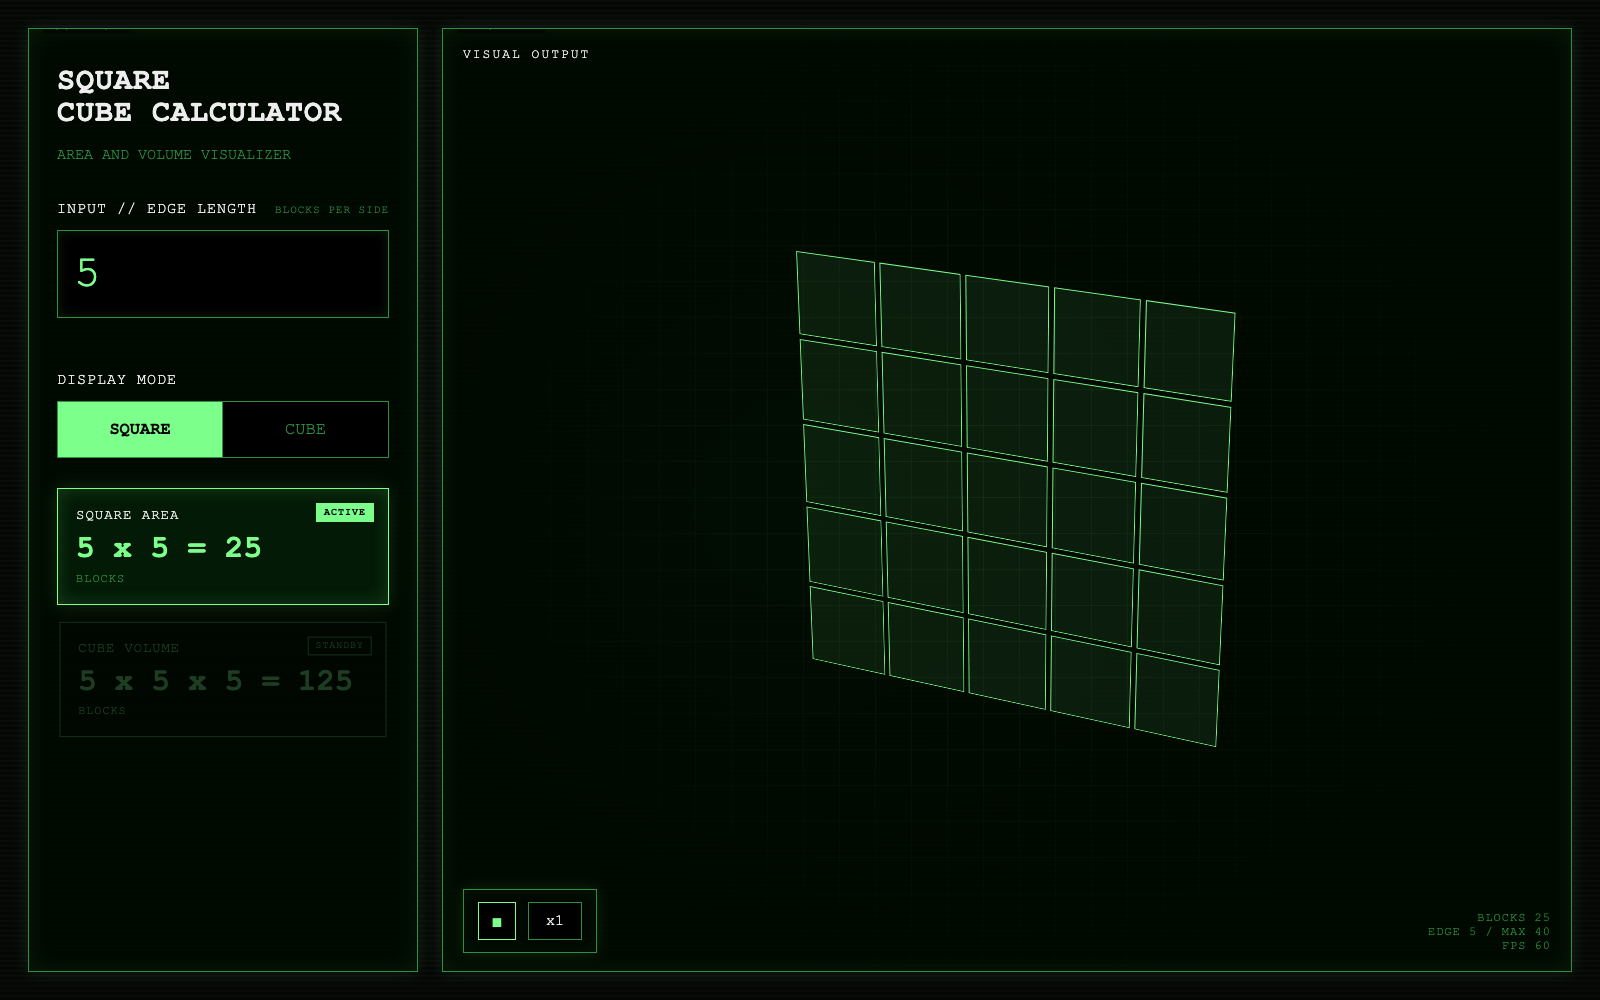
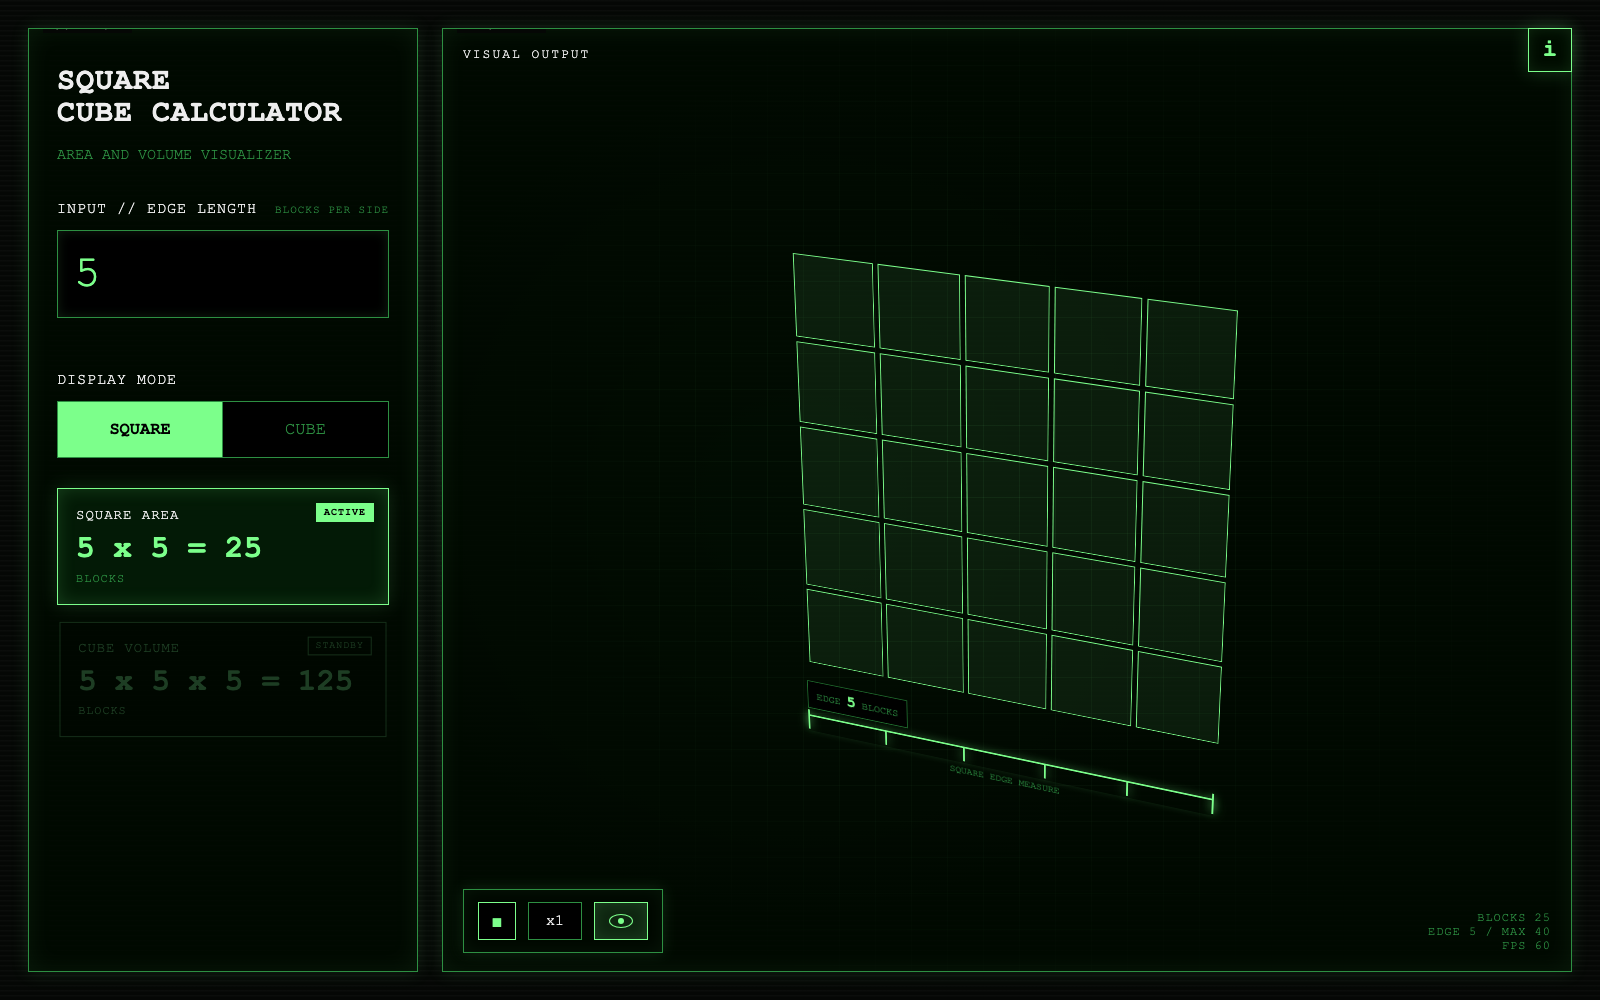
feat: add measurement guide toggle

diff --git a/styles.css b/styles.css
@@ -348,6 +348,57 @@
                 cursor: pointer;
             }
 
+            .viewer-measure-toggle {
+                display: inline-flex;
+                align-items: center;
+                justify-content: center;
+                min-width: 54px;
+                height: 38px;
+                border: 1px solid var(--green-dim);
+                background: var(--black);
+                color: var(--green-dim);
+                font-family: inherit;
+                cursor: pointer;
+            }
+
+            .viewer-measure-toggle.active {
+                border-color: var(--green);
+                background: rgba(124, 255, 139, 0.12);
+                color: var(--green);
+                box-shadow: inset 0 0 14px rgba(124, 255, 139, 0.12);
+            }
+
+            .eye-icon {
+                position: relative;
+                width: 24px;
+                height: 14px;
+                border: 1px solid currentColor;
+                border-radius: 50%;
+            }
+
+            .eye-icon::before {
+                content: "";
+                position: absolute;
+                top: 50%;
+                left: 50%;
+                width: 6px;
+                height: 6px;
+                border-radius: 50%;
+                background: currentColor;
+                transform: translate(-50%, -50%);
+            }
+
+            .viewer-measure-toggle:not(.active) .eye-icon::after {
+                content: "";
+                position: absolute;
+                top: 50%;
+                left: -3px;
+                width: 30px;
+                height: 1px;
+                background: currentColor;
+                transform: rotate(-35deg);
+            }
+
             .object-wrap {
                 position: relative;
                 width: 520px;
@@ -375,6 +426,7 @@
             }
 
             .square-grid {
+                position: relative;
                 display: grid;
                 gap: 5px;
                 transform-style: preserve-3d;
@@ -484,6 +536,12 @@
                 z-index: 2;
                 transform: translateZ(calc(var(--cube-px) / 2 + 8px));
                 pointer-events: none;
+            }
+
+            .dimension-line.square-measure {
+                top: calc(100% + 18px);
+                width: 100%;
+                transform: translateZ(8px);
             }
 
             .dimension-label {

diff --git a/script.js b/script.js
@@ -12,12 +12,14 @@ const sizeInput = document.getElementById("sizeInput");
             const count3dLabel = document.getElementById("count3dLabel");
             const rotationToggle = document.getElementById("rotationToggle");
             const speedCycleButton = document.getElementById("speedCycleButton");
+            const measureToggle = document.getElementById("measureToggle");
             const infoButton = document.getElementById("infoButton");
             const infoModal = document.getElementById("infoModal");
             const infoClose = document.getElementById("infoClose");
 
             let mode = "2d";
             let isRotationPlaying = true;
+            let showMeasurements = true;
             let speedLevel = 1;
             let audioContext;
             let renderTimer;
@@ -61,6 +63,7 @@ const sizeInput = document.getElementById("sizeInput");
                     size,
                     speedLevel,
                     isRotationPlaying,
+                    showMeasurements,
                 };
 
                 localStorage.setItem(storageKey, JSON.stringify(settings));
@@ -74,6 +77,7 @@ const sizeInput = document.getElementById("sizeInput");
                     const settings = JSON.parse(saved);
                     mode = settings.mode === "3d" ? "3d" : "2d";
                     isRotationPlaying = settings.isRotationPlaying !== false;
+                    showMeasurements = settings.showMeasurements !== false;
                     speedLevel = getSavedSpeedLevel(settings);
                     sizeInput.max = getMaxSize();
                     sizeInput.value = clampSize(settings.size || 5);
@@ -162,6 +166,17 @@ const sizeInput = document.getElementById("sizeInput");
                 visual.style.setProperty("--rotation-state", "running");
                 rotationToggle.textContent = "■";
                 rotationToggle.setAttribute("aria-label", "Stop rotation");
+            }
+
+            function updateMeasurementToggle() {
+                measureToggle.classList.toggle("active", showMeasurements);
+                measureToggle.setAttribute("aria-pressed", String(showMeasurements));
+                measureToggle.setAttribute(
+                    "aria-label",
+                    showMeasurements
+                        ? "Hide measurement guide"
+                        : "Show measurement guide",
+                );
             }
 
             function getActiveObject() {
@@ -272,7 +287,17 @@ const sizeInput = document.getElementById("sizeInput");
                 grid.style.setProperty("--cell-size", `${cellSize}px`);
                 grid.style.gridTemplateColumns = `repeat(${size}, ${cellSize}px)`;
                 grid.style.gridTemplateRows = `repeat(${size}, ${cellSize}px)`;
+                if (showMeasurements) {
+                    grid.appendChild(
+                        createDimensionLine(
+                            size,
+                            "SQUARE EDGE MEASURE",
+                            "square-measure",
+                        ),
+                    );
+                }
                 visual.appendChild(grid);
+                if (showMeasurements) animateDimensionLine(grid, size);
             }
 
             function render3D(size) {
@@ -297,27 +322,29 @@ const sizeInput = document.getElementById("sizeInput");
                     },
                 );
 
-                cube.appendChild(createDimensionLine(size));
+                if (showMeasurements) {
+                    cube.appendChild(createDimensionLine(size, "FRONT EDGE MEASURE"));
+                }
 
                 visual.appendChild(cube);
-                animateDimensionLine(cube, size);
+                if (showMeasurements) animateDimensionLine(cube, size);
             }
 
-            function createDimensionLine(size) {
+            function createDimensionLine(size, noteText, extraClass = "") {
                 const line = document.createElement("div");
                 const label = document.createElement("div");
                 const rail = document.createElement("div");
                 const scanDot = document.createElement("div");
                 const note = document.createElement("div");
 
-                line.className = "dimension-line counting";
+                line.className = `dimension-line counting ${extraClass}`.trim();
                 label.className = "dimension-label";
                 rail.className = "dimension-rail";
                 scanDot.className = "scan-dot";
                 note.className = "dimension-note";
 
                 label.innerHTML = `EDGE <strong>${size}</strong> BLOCKS`;
-                note.textContent = "FRONT EDGE MEASURE";
+                note.textContent = noteText;
 
                 for (let i = 0; i <= size; i += 1) {
                     const tick = document.createElement("span");
@@ -455,6 +482,13 @@ const sizeInput = document.getElementById("sizeInput");
                 saveSettings();
             }
 
+            function toggleMeasurements() {
+                showMeasurements = !showMeasurements;
+                playSound("mode");
+                updateMeasurementToggle();
+                render();
+            }
+
             function changeSize(delta) {
                 const current = sizeInput.value === "" ? 1 : clampSize(sizeInput.value);
                 const next = Math.max(1, Math.min(getMaxSize(), current + delta));
@@ -544,6 +578,7 @@ const sizeInput = document.getElementById("sizeInput");
             speedCycleButton.addEventListener("click", () => {
                 setSpeedLevel(speedLevel === 4 ? 1 : speedLevel + 1);
             });
+            measureToggle.addEventListener("click", toggleMeasurements);
             infoButton.addEventListener("click", openInfoModal);
             infoClose.addEventListener("click", closeInfoModal);
             infoModal.addEventListener("click", (event) => {
@@ -566,4 +601,5 @@ const sizeInput = document.getElementById("sizeInput");
             loadSettings();
             render();
             updateRotationSpeed();
+            updateMeasurementToggle();
             requestAnimationFrame(updateFps);

diff --git a/index.html b/index.html
@@ -86,6 +86,15 @@
                     >
                         x1
                     </button>
+                    <button
+                        id="measureToggle"
+                        class="viewer-measure-toggle active"
+                        type="button"
+                        aria-label="Hide measurement guide"
+                        aria-pressed="true"
+                    >
+                        <span class="eye-icon" aria-hidden="true"></span>
+                    </button>
                 </div>
             </section>
         </main>

diff --git a/README.md b/README.md
@@ -15,10 +15,12 @@ This is a pure HTML, CSS, and JavaScript learning tool that helps children see h
 - Visualizes cube volume as `edge x edge x edge`.
 - Shows a large animated 2D square grid and 3D cube.
 - Highlights the active calculation mode: `SQUARE AREA` or `CUBE VOLUME`.
-- Includes cube edge measurement guides so children can feel the meaning of edge length.
+- Includes square and cube edge measurement guides so children can feel the meaning of edge length.
+- Provides an eye toggle for showing or hiding measurement guides.
 - Supports mouse and touch drag rotation for the 3D object.
 - Automatically resumes rotation after interaction.
 - Provides play/pause and speed cycle controls.
+- Shows keyboard shortcuts in a NASA-style info modal.
 - Provides keyboard shortcuts for fast control.
 - Shows FPS and block count readouts.
 - Saves normal settings in local storage.
@@ -67,10 +69,12 @@ This tool is designed for young children who are beginning to understand shape, 
 - 정육면체 부피를 `한 변 x 한 변 x 한 변`으로 보여줍니다.
 - 2D 정사각형 격자와 3D 큐브를 크게 시각화합니다.
 - 현재 선택한 모드에 따라 `SQUARE AREA` 또는 `CUBE VOLUME` 카드를 강조합니다.
-- 큐브 한 변의 길이를 계측선으로 보여줘서 길이 변화를 직관적으로 느낄 수 있습니다.
+- 정사각형과 큐브 한 변의 길이를 계측선으로 보여줘서 길이 변화를 직관적으로 느낄 수 있습니다.
+- 눈 아이콘 토글로 계측선을 보이거나 숨길 수 있습니다.
 - 마우스와 터치로 3D 물체를 직접 회전할 수 있습니다.
 - 조작이 끝나면 자동 회전이 다시 시작됩니다.
 - 재생/정지 버튼과 회전 속도 순환 버튼을 제공합니다.
+- NASA 스타일 정보 모달에서 키보드 단축키를 확인할 수 있습니다.
 - 빠른 조작을 위한 키보드 단축키를 제공합니다.
 - FPS와 블록 개수를 화면에 표시합니다.
 - 일반 새로고침 후에도 설정을 로컬 스토리지에 저장합니다.